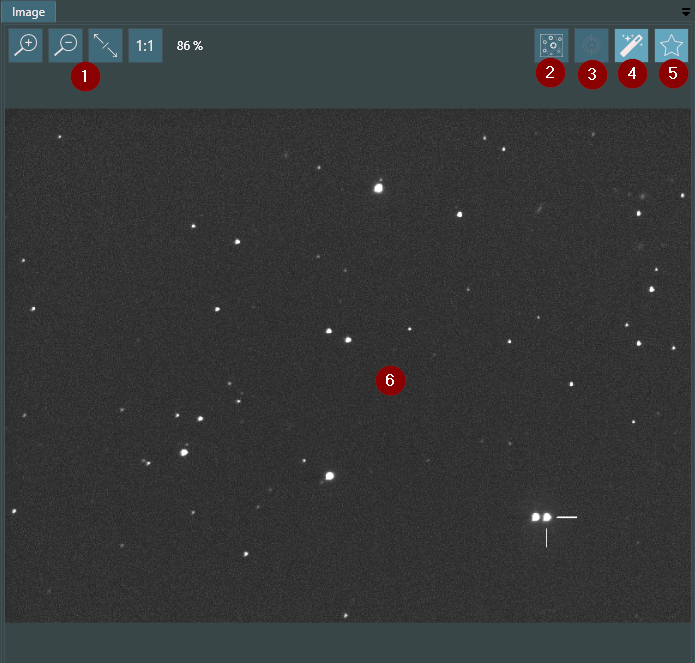
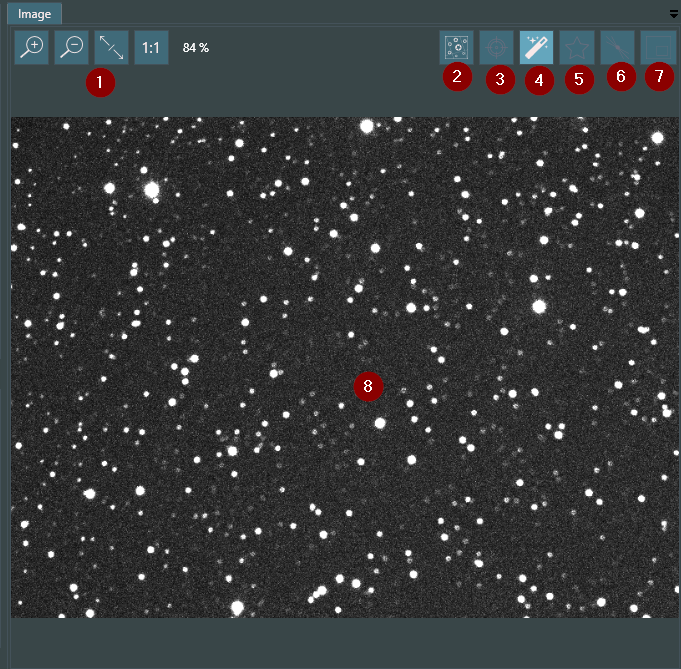
update of manual to 1.5.0.0
Former-commit-id: b5cad9a77dcaae1ee55854d22a7d30b1935e51e3
Former-commit-id: de1fe19ff01b6e329561bb040ea36b629c01350b

diff --git a/NINA/Documentation/NINA.md b/NINA/Documentation/NINA.md
@@ -5,7 +5,7 @@
 
 # NINA - Nighttime Imaging ‘N’ Astronomy Manual
 
-Manual for Version 1.4.1.0
+## Version 1.4.1.0
 
 ![NINA Logo](images\nina-logo.png)
 
@@ -15,8 +15,6 @@ Manual for Version 1.4.1.0
 
 <!-- TOC -->
 
-- [NINA - Nighttime Imaging ‘N’ Astronomy Manual](#nina---nighttime-imaging-n-astronomy-manual)
-- [Table of Contents](#table-of-contents)
 - [Manual Revision History](#manual-revision-history)
 - [Manual Editing Guidelines](#manual-editing-guidelines)
 - [Glossary](#glossary)
@@ -83,11 +81,12 @@ Manual for Version 1.4.1.0
 # Manual Revision History
 | Version | Date | Comment |
 | --- | --- | --- |
-| 0.1 | 2018-04-25 | Initial draft with rough outline |
+| 0.1 | 2018-04-25 | Initial draft with rough outline for preliminary version 1.4.1.0 |
 | 0.2 | 2018-04-25 | Added Manual Editing Guidelines, Introduction, Requirements, Quick Start Guide |
 | 0.3 | 2018-04-25 | Added detailed information for following tabs: Camera, Filter wheel+Focuser, Telescope, PHD2, Object Browser; added images to document framing assistant, sequence and settings tab; more glossary items; peer reviewed quick start guide |
 | 0.4 | 2018-04-27 | Completed initial Tabs documentation |
 | 0.5 | 2018-04-27 | Conversion to Markdown, minor changes |
+| 0.6 | 2018-05-02 | Updated to 1.5.0.0, added screenshots and descriptions of new features |
 
 # Manual Editing Guidelines
 - Screenshots with NINA in 1280×720 (minimal window size) resolution to maintain readability
@@ -111,7 +110,7 @@ Manual for Version 1.4.1.0
 | Plate Solving | Using software and a captured image to determine where your scope is pointing at in the sky |
 | Dithering | Moving the guiding output by a few pixels to shift the image by a tiny bit to prevent fixed noise patterns and missing data by hot pixels |
 | HFR | Half-Flux Radius of stars in pixels which determines how focussed the average star is |
-| ADU | Analogue Digital Unit, the lightness value of pixels (max. 2^16) |
+| ADU | Analogue Digital Unit, the lightness value of pixels (max. 2^BitDepth) |
 | ASCOM | AStronomy Common Object Model, a standard protocol for astronomy related device drivers |
 | DSO | Deep Space Object, anything that does not count as a star or planet |
 | DSLR | Digital Single Lens Reflex Camera, typical hand held camera with interchangeable lenses and a mirror for the viewfinder |
@@ -133,6 +132,8 @@ This document is aimed to describe the functionality of NINA so you can utilize 
 
 > Important notes will appear like this throughout the documentation, if you happen to find a note like this don't skimp over it!
 
+> Please note that images in this manual might not 100% reflect what you see, they will only be updated for a specific section if there actually were some updates in this version.
+
 ---
 
 # Prerequisites, Compatibility and System Requirements
@@ -144,22 +145,25 @@ This document is aimed to describe the functionality of NINA so you can utilize 
 - [ASCOM Platform 6.3 or later][ASCOM]
 - At least 2GB RAM
 - A dual core CPU (technically should run on single core too)
-- 70MB of free disk space
+- 70MB of free disk space without SkyAtlas
 
 ## Supported Devices
-- Camera
+- Cameras
     - [ASCOM][ASCOM] supported 64bit camera driver
     - ZWO cameras with native driver
+    - Atik cameras with native driver
     - Canon cameras
         - EOS 1300d not compatible
     - Nikon cameras
         - Some Nikons may require a serial shutter cable for bulb exposures
 - Mounts
-    - All [ASCOM][ASCOM] compatible mounts with 64bit drivers
+    - All [ASCOM][ASCOM] compatible mounts
 - Filter Wheels
-    - All [ASCOM][ASCOM] compatible filter wheels with 64bit drivers
+    - All [ASCOM][ASCOM] compatible filter wheels
 - Focusers
-    - All [ASCOM][ASCOM] compatible focusers with 64bit drivers
+    - All [ASCOM][ASCOM] compatible focusers
+ 
+> Please note that for the 64bit version of NINA you need 64bit drivers for your ASCOM devices.
 
 ## Supported Software
 - [PHD2](https://openphdguiding.org/)
@@ -248,6 +252,8 @@ You can leave those panels enabled, or disable any other at your will. Feel free
 
 Since our target now is to focus our telescope to get pinpoint stars, we have to use the the following currently enabled panels.
 
+> An alternative to focus is to use a Bahtinov Mask. You can try our experimental feature for Bahtinov Detection by enabling the icon in the [Image panel](#panel--image).
+
 With the HFR History (1) you will be able to see how your stars perform in terms of HFR. This is also represented in the Statistics panel (2). The lower your HFR value, the better focused your image will be. To start the manual focus procedure, you have to select the Imaging tab (3) and press on the start capture button (4). Your exposure time for that snapshot can be adjusted as well, should you choose to do so (5).
 
 To enable star detection and HFR analysis, you need to press on the Star Analysis button (6). This will yield a full analysis of the image and will enter the HFR values in the Statistics (2) and HFR History (1). You will notice that the AutoStretch button (7) will be enabled as well once you enable the Star Analysis button (6).
@@ -301,8 +307,10 @@ The Camera panel allows you to connect ASCOM based cameras as well as various ZW
         > Please note that DSLR do not report all necessary data
 6. **Gain, Offset and USB Limit Settings**
     - Allows the change of Gain, Offset and USB Limit
-        > Please note that the specific driver has to support this
+        > Please note that the specific driver has to support this  
+
 > Following settings need the camera to have an active cooler and report its status to NINA
+
 7. **Cooler status and switch**
     - Enable to start cooling the camera to the selected Target Temperature (9)
 8. **Temperature Information**
@@ -407,10 +415,15 @@ With the PHD2 tab you can connect NINA to PHD2 to send dither commands and recei
 2. **PHD2 Information**
     - Displays information about the connection status, pixel scale in PHD2 and the current state of the guider
 3. **Y-Axis Scale**
-    - Allows you to change the scale of the Y-Axis, is affected by( 4)
-4. **Y-Axis Scale selection**
+    - Allows you to change the scale of the Y-Axis, is affected by (4)
+4. **X-Axis Scale**
+    - Allows you to change the scale of the X-Axis
+        > Can also be set in the [Equipment Settings](#equipment-settings)
+5. **Y-Axis Scale units**
     - Allows you to change the scale of the Y axis between arcseconds (recommended) and pixels. PHD2 natively displays information in arcseconds
-5. **Guiding graph**
+6. **RMS Display**
+    - Displays the current Root Mean Square error in RA, Dec and Total
+7. **Guiding graph**
     - Displays the guiding graph as received by PHD2. Colors are identical for RA and Dec as they typically are in PHD2.
 
 ---
@@ -640,6 +653,20 @@ The image panel displays the latest captured image. You can zoom, plate solve or
     > Will also enable (4)
     - Tries to detect the stars in the image to output a [HFR result](#panel--hfr-history)
     - When annotation is enabled in the [Settings](#imaging-settings), will annotate the stars with their respective calculated HFR
+6. **Bahtinov Helper** *(Experimental feature)*
+    - Tries to detect the bahtinov Pattern on an image
+    - Displays a rectangle which can be dragged around
+        > Beta status, might not work as expected, report bugs or issues if you have any!
+    - ![Panel: Image: Bahtinov](images/panel-image-bahtinov.png)
+7. **Subsampling Rectangle** *(Experimental feature)*
+    - If your camera allows subsampling of a frame will display a rectangle, which can be dragged around the image
+    - Enabling subsampling in the [Imaging panel](#panel--imaging) will only download the displayed rectangle as long subsampling is enabled
+        > Currently only implemented for native Atik cameras
+    - ![Panel: Image: SubSampling](images/panel-image-subsampling.png)
+8. **Your captured image**
+     - Display of the last captured frame or a loaded frame from the [Image History](#panel--image-history)
+     - Is affected by (4) and will be displayed autostretched when enabled
+
 
 ---
 
@@ -660,7 +687,6 @@ The Camera panel displays various information about the current state of the cam
 > Cooling requires a camera with an active cooler that reports to NINA  
 > Requires a connected [camera](#tab--camera) to display information
 1. **Display of the current cooler status**
-    > You cannot enable or disable the cooler with this switch
 2. **Target temperature**
     - You can set the target temperature in C here
 3. **Duration**
@@ -776,8 +802,10 @@ This panel will display information as provided by [PHD2](#tab--phd2).
 ![Panel: Guider](images/panel-guiding.png)
 
 1. **Guider Status**
-2. **Guider Graph**
+2. **RMS Display**
+3. **Guider Graph**
     - Will utilize the scale as set in the [PHD2 tab](#tab--phd2)
+    - X-Scale can be changed in the [Settings](#equipment-settings)
 
 ---
 
@@ -846,7 +874,7 @@ The imaging panel allows you to take snapshots with your camera, for example for
 3. **Binning**
     - This allows you to change the binning
     > Only makes sense on CCD cameras
-4. **Gain**
+4. **Gain (not shown)**
     - Allows you to change the gain
     > Some cameras might not have the ability to change gain
 5. **Loop**
@@ -854,7 +882,11 @@ The imaging panel allows you to take snapshots with your camera, for example for
 6. **Save**
     - When enabled will save the images to the image path as defined in Settings
     > Image type will be “SNAP” for those images
-7. **Start Snapshot**
+7. **Enable SubSampling** *(Experimental feature)*
+    - Toggles the capture of only the subsampled frame as defined in the [image panel](#panel--image)
+        > Currently only supported by native Atik cameras  
+        > To get the full sized frame again disable subsampling
+8. **Start Snapshot**
     - Starts the snapshot
     > When loop (5) is enabled, will loop until pressed again to cancel
     
@@ -886,7 +918,13 @@ This panel shows you useful statistics about your latest captured or loaded imag
 > Will display the statistics only at least one image capture
 1. **Display of statistics**
     > Stars and HFR will not be calculated unless HFR detection is enabled
-2. **Histogram**
+2. **Optimal Exposure Calculator** *(Experimental feature)*
+    - Based on your camera values as defined in the [settings](#settings-equipment) will try and determine the necessary exposure time for a decently exposed image
+    - Calculations will be done once an image has been captured
+        > You should expose for at least 30s for this to work properly  
+        > You need to set the correct values in the settings, please refer to the PixInsight script ccdparameters or sensorgen.info for your cameras' values  
+        > *This is only a rough guideline and should work if you enter the correct values in the settings*  
+3. **Histogram**
     - This will show your exposure histogram
     > Histogram resolution can be set in [Settings](#imaging-settings)
 
@@ -974,37 +1012,64 @@ This tab allows you to change settings related to your equipment.
 
 1. **Camera Pixel Size**
     - The Pixel Size of your camera sensor in micrometers
-    > Will be automatically populated by the camera, if it provides the information
-2. **Camera Bulb Mode**
+      > Will be automatically populated by the camera, if it provides the information
+
+> For entries 2-5 refer to sensorgen.info or ccdparameters script in PixInsight
+
+2. **Camera Read noise in e**
+    - The read noise in electrons of your camera device
+3. **BIAS mean (native)**
+    - The mean value of your BIAS (shortest exposure) at your cameras native bit depth (4)
+4. **Bit depth**
+     - Your cameras native ADC bit depth
+5. **Full Well Capacity in e**
+    - Your cameras full well capacity in electrons
+6. **Download to Data ratio**
+    - The ratio the optimal exposure calculator will utilize to calculate the maximum adequately possible exposures
+7. **Camera Bulb Mode**
     - Allows you to change the bulb mode of the camera
     - Native will work in most cases
     - RS232 and Mount is available as well and might be necessary for older Nikon cameras
         > Please refer to Using RS232 or Mount for bulb shutter
-3. **Telescope Focal Length**
+8. **Raw converter**
+    - You can change the raw converter here
+    - Only applies to DSLR
+    - Available converters: DCRaw and FreeImage
+        - DCRaw will utilize DCRaw and stretch your images to 16bit, applying the cameras specific color bias profile
+        - FreeImage will deliver the frame exactly as your camera provided it and can be slightly faster for image download on slower machines
+            > Note that both raw converters will deliver you the raw frame of your DSLR. but they might vary in color. Saving the raw frame without adding the camera specific profile with FreeImage can deliver more faint and less colorful raw images than you are used to.
+9. **Telescope Focal Length**
     - Enter your telescope focal length here
     > This will be used for [plate solving](#panel--plate-solving)
-4. **Use Filter Wheel Offsets**
+10. **Settle time after slew**
+    - After slewing NINA will wait the specified amount before starting an exposure
+    - Value is in seconds
+11. **Use Filter Wheel Offsets**
     - When enabled the focuser will utilize the filter wheel focus offsets as defined in (6)
-5. **Auto Focus Settings**
+12. **Auto Focus Settings**
     - Allows you to change how the focuser operates in auto focus mode
-6. **Filter Wheel Filter List**
+13. **Filter Wheel Filter List**
     - This filter wheel filter list is used for sequences in NINA
     > You should import your filter list from your ASCOM filter wheel at least once using (8)
-7. **Add or Remove to/from Filter List**
+14. **Add or Remove to/from Filter List**
     - Manually add or remove filters from the filter list
     > Removing always removes the selected filter
-8. **Import Filters from Filter Wheel**
+15. **Import Filters from Filter Wheel**
     > You should run this once to synchronize your filters from ASCOM to NINA
-9. **PHD2 Server URL and Port**
+16. **PHD2 Server URL and Port**
     - You can set the PHD2 server settings here
     > Usually the defaults should work fine  
     > You need to enable PHD2 server in PHD2
-10. **Dither Pixels amount**
+17. **Dither Pixels amount**
     - The amount of pixels to dither in PHD2
-11. **Dither RA Only**
+18. **Dither RA Only**
     - Enables dithering in the RA axis only
-12. **Settle Time after resume**
+19. **Settle Time after resume**
     - The time NINA should wait after a dithering process until it starts the next capture
+20. **PHD2 History Size**
+    - The amount of PHD2 guide values NINA will save in the History of the [PHD2 Tab](#tabs--phd2)
+21. **PHD2 History Size (Imaging)**
+    - The amount of PHD2 guide values NINA will save in the history of the [PHD2 Panel](#panels--guider)
 
 ---
 
@@ -1016,7 +1081,7 @@ In the Imaging settings you can find various imaging related settings like file 
 
 1. **Image Save Format Drop Down**
     - File format to save the image as
-        - Available formats: TIFF, TIFF (Zip), TIFF (LZW), XISF, FITS
+        - Available formats: TIFF, TIFF (zip-compressed), TIFF (lzw-compressed), XISF, FITS
     - Either format will be saved unbayered as 16bit RAW file
     - TIFF can be left as default
     > To save space you can use TIFF (Zip) or TIFF (LZW)
@@ -1075,10 +1140,16 @@ This Setting tab allows you to change the plate solving mechanism. There are 3 p
 2. **Blind Solver Drop Down**
     - This is the blind solver for initial solving
     > Will be used for [Framing Assistant](#tab--framing-assistant) and for normal [plate solving](#panel--plate-solving) should the primary fail
-3. **Plate Solver Settings Selection**
+3. **Exposure Time**
+    - The default exposure time for Plate Solving
+4. **Filter**
+    - The default filter for Plate Solving
+5. **error <**
+    - The default error in arcmin for repeated Plate Solving
+6. **Plate Solver Settings Selection**
     - Here you can select the various plate solvers
     > Settings for the Plate solver will appear on the right
-4. **Astrometry.Net Plate Solver API Key**
+7. **Astrometry.Net Plate Solver API Key**
     - This is the main setting for the Astrometry.Net Plate Solver
     > You need an account with astrometry.net to get an API key
 
@@ -1176,6 +1247,12 @@ Those are the settings for the PlateSolve 2 platesolver.
 
 ## Bugs
 
+Should you encounter any bugs during your usage of NINA please report them to the [Issues Tracker][IssuesTracker] or directly to us on our [Discord][Discord]. If possible attach the latest Log file from the day on which you encountered the issue.
+
+Log files can be found in ```%LOCALAPPDATA%%\NINA\Logs\```
+
 ---
 
 ## Comments and Suggestions
+
+We are always happy to take new comments and suggestions to improve your and our experience with NINA. As with Bugs feel free to drop them by us on our [Issues Tracker][Issues Tracker] or [Discord][Discord]. You are always welcome and your voice will be heard - or you get your money back.
